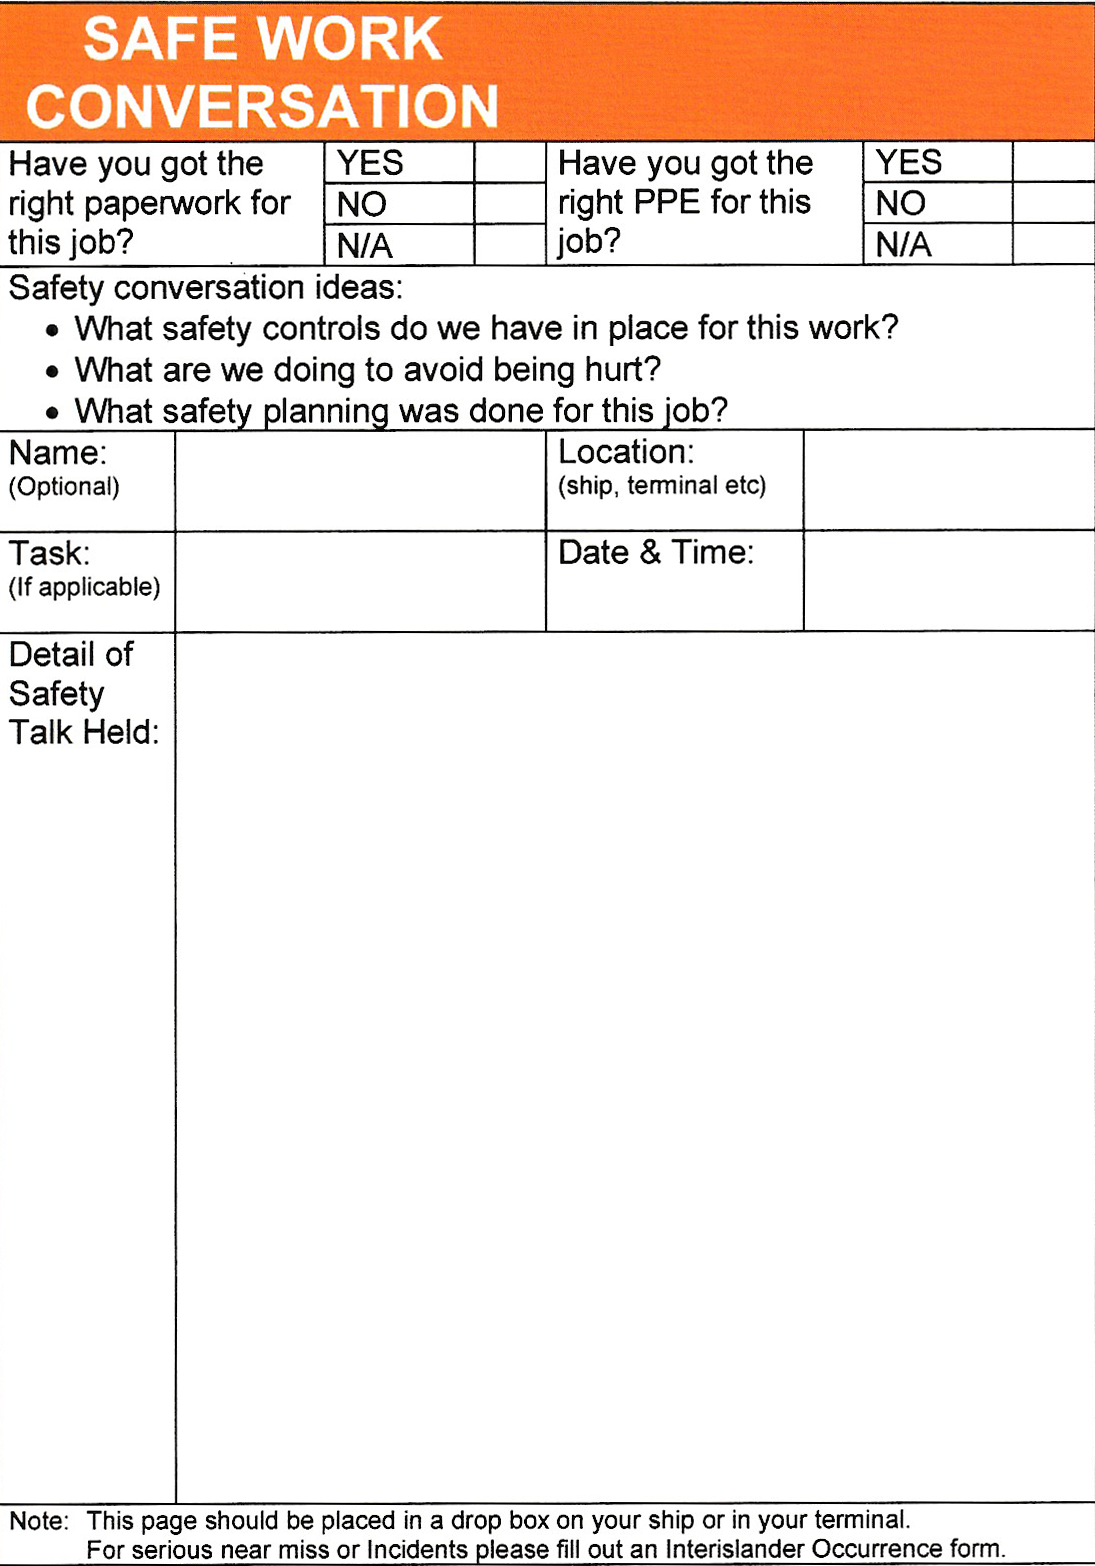
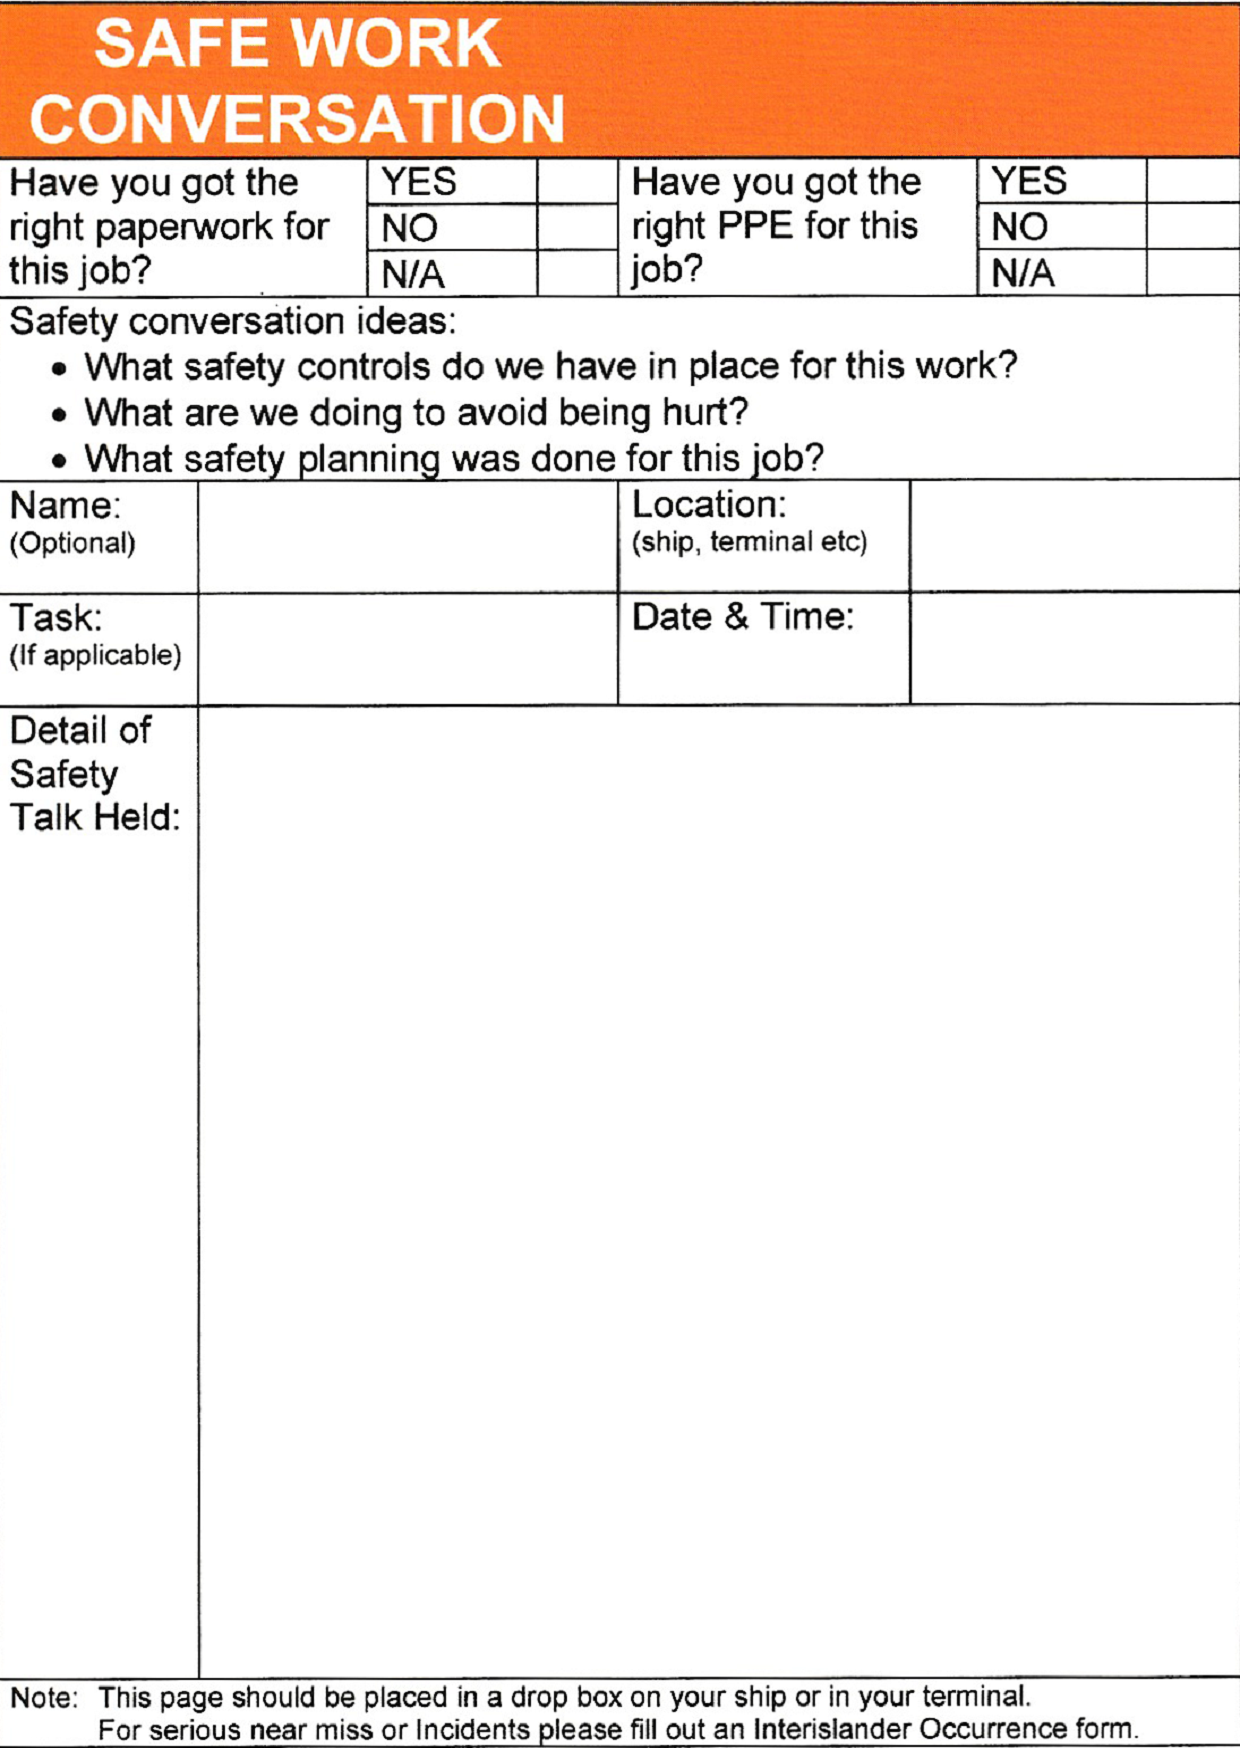
hee

diff --git a/nzms/index.html b/nzms/index.html
@@ -1,82 +1,105 @@
 <!doctype html>
 <html>
-<head>
-<link rel="stylesheet" type="text/css" href="markdown.css">
-<link rel="stylesheet" type="text/css" href="styles.css">
-<title>ETO/ENG Class of 2019/2020 Vessels</title>
-</head>
-<body>
-<article class="markdown-body" align="center">
-<script type="text/javascript">
-    // Map appearance
-    var width="100%";         // width in pixels or percentage
-    var height="720";         // height in pixels
-    var latitude="-38.00";      // center latitude (decimal degrees)
-    var longitude="175.00";     // center longitude (decimal degrees)
-    var zoom="3";             // initial zoom (between 3 and 18)
-    var names=true;          // always show ship names (defaults to false)
 
-    // Fleet tracking
-    var fleet="a0698273e227a0e70c8ddb38fdf4fe82"; // your personal Fleet key (displayed in your User Profile)
-    var fleet_name="ETOs"; // display particular fleet from your fleet list
-    var fleet_timespan="1440"; // maximum age in minutes of the displayed ship positions
-</script>
-<script type="text/javascript" src="https://www.vesselfinder.com/aismap.js"></script>
-<h1>List of Vessels of At-Sea NZMS ENG/ETO Cadets</h1>
-<p>
- <table>
- <tr class="text-bold">
- <td>Name</td>
- <td>Vessel Type</td>
- <td>Vessel Name</td>
- <td>IMO Number</td>
- </tr>
-  <tr>
-    <td>Josh C.</td>
-		<td>Container Ship</td>
-    <td><a href="https://www.marinetraffic.com/en/ais/details/ships/imo:9516741/" target="_blank">M/S Moana Chief</a></td>
-    <td>9516741</td>
-  </tr>
-    <tr>
-    <td>Levi D.</td>
-	<td>RO/RO Passenger Ferry</td>
-    <td><a href="https://www.marinetraffic.com/en/ais/details/ships/imo:9174828/" target="_blank">DEV Aratere</a></td>
-    <td>9174828</td>
-  </tr>
-      <tr>
-    <td>Ollie B.</td>
-	<td>RO/RO Passenger Ferry</td>
-    <td><a href="https://www.marinetraffic.com/en/ais/details/ships/imo:9174828/" target="_blank">DEV Aratere</a></td>
-    <td>9174828</td>
-  </tr>
-</table> </p>
-<h1>List of Previous Vessels of NZMS ENG/ETO Cadets</h1>
- <table>
- <tr class="text-bold">
- <td>Name</td>
- <td>Vessel Type</td>
- <td>Vessel Name</td>
- <td>IMO Number</td>
- <td>Year of Service</td>
- </tr>
-  <tr>
-    <td>Josh C.</td>
-		<td>Cruise Ship</td>
-    <td><a href="https://www.marinetraffic.com/en/ais/details/ships/imo:9378450/" target="_blank">M/S Nieuw Amsterdam</a></td>
-    <td>9378450</td>
-	<td>2019</td>
-  </tr>
-    <tr>
-    <td>Ollie B.</td>
-		<td>Container Ship</td>
-    <td><a href="https://www.marinetraffic.com/en/ais/details/ships/imo:9354533/" target="_blank">Capitaine Tasman</a></td>
-    <td>9354533</td>
-	<td>2019</td>
-  </tr>
-</table>
-<p><span style="font-style:italic;">Data supplied by <a href="https://www.vesselfinder.com/" target="_blank">Vessel Finder</a></p></span>
-<h3 style="text-align:center;">REST IN PEACE THE <a href="https://www.nzmaritime.com/">NZMS</a> ETO PROGRAMME</h3>
-<h3 style="text-align:center;">2016-2020</h3>
-</article>
+<head>
+    <link rel="stylesheet" type="text/css" href="markdown.css">
+    <link rel="stylesheet" type="text/css" href="styles.css">
+    <title>NZMS ETO Status</title>
+</head>
+
+<body>
+    <article class="markdown-body" align="center">
+        <script type="text/javascript">
+            // Map appearance
+            var width="100%";         // width in pixels or percentage
+            var height="720";         // height in pixels
+            var latitude="-38.00";      // center latitude (decimal degrees)
+            var longitude="175.00";     // center longitude (decimal degrees)
+            var zoom="3";             // initial zoom (between 3 and 18)
+            var names=true;          // always show ship names (defaults to false)
+        
+            // Fleet tracking
+            var fleet="a0698273e227a0e70c8ddb38fdf4fe82"; // your personal Fleet key (displayed in your User Profile)
+            var fleet_name="ETOs"; // display particular fleet from your fleet list
+            var fleet_timespan="1440"; // maximum age in minutes of the displayed ship positions
+        </script>
+        <script type="text/javascript" src="https://www.vesselfinder.com/aismap.js"></script>
+        <h1>Current Status of NZMS ETOs</h1>
+        <p>
+            <table>
+                <tr class="text-bold">
+                    <td>Name</td>
+                    <td>Status</td>
+                    <td>Vessel Name</td>
+                    <td>Vessel Type</td>
+                </tr>
+                <tr>
+                    <td>Toby S-M.</td>
+                    <td>AT SEA</td>
+                    <td><a href="https://www.marinetraffic.com/en/ais/details/ships/imo:9516741/" target="_blank">M/S Moana Chief</a></td>
+                    <td>Container Vessel</td>
+                </tr>
+                <tr>
+                    <td>Levi D.</td>
+                    <td>AT SEA</td>
+                    <td><a href="https://www.marinetraffic.com/en/ais/details/ships/imo:9174828/" target="_blank">DEV Aratere</a></td>
+                    <td>RO/RO Passenger Ferry</td>
+                </tr>
+                <tr>
+                    <td>Nick H.</td>
+                    <td>ASHORE</td>
+                    <td>N/A</td>
+                    <td>N/A</td>
+                </tr>
+                <tr>
+                    <td>Josh C.</td>
+                    <td>ASHORE</td>
+                    <td>N/A</td>
+                    <td>N/A</td>
+                </tr>
+                <tr>
+                    <td>Lewis G.</td>
+                    <td>UNKNOWN</td>
+                    <td>N/A</td>
+                    <td>N/A</td>
+                </tr>
+                <tr>
+                    <td>James S.</td>
+                    <td>ASHORE (P)</td>
+                    <td>N/A</td>
+                    <td>N/A</td>
+                </tr>
+                <tr>
+                    <td>Rhett S.</td>
+                    <td>UNKNOWN</td>
+                    <td>N/A</td>
+                    <td>N/A</td>
+                </tr>
+                <tr>
+                    <td>Luciano H.</td>
+                    <td>UNKNOWN</td>
+                    <td>N/A</td>
+                    <td>N/A</td>
+                </tr>
+                <tr>
+                    <td>Marlon T.</td>
+                    <td>UNKNOWN</td>
+                    <td>N/A</td>
+                    <td>N/A</td>
+                </tr>
+                <tr>
+                    <td>Sam C.</td>
+                    <td>INSANE (P)</td>
+                    <td>N/A</td>
+                    <td>N/A</td>
+                </tr>
+            </table>
+        </p>
+        <p>A (P) indicates that this status is assumed to be permanent.</p>
+        <p><span style="font-style:italic;">Data supplied by <a href="https://www.vesselfinder.com/" target="_blank">Vessel Finder</a></p></span>
+            <h3 style="text-align:center;">REST IN PEACE THE <a href="https://www.nzmaritime.com/">NZMS</a> ETO PROGRAMME</h3>
+            <h3 style="text-align:center;">2016-2020</h3>
+    </article>
 </body>
+
 </html>

diff --git a/random/main.js b/random/main.js
@@ -1,5 +1,7 @@
 const randomize = document.querySelector('.randomize');
 const story = document.querySelector('.story');
+const date = document.querySelector(".date");
+
 
 function randomValueFromArray(array){
   const random = Math.floor(Math.random()*array.length);
@@ -38,9 +40,11 @@ let equipment = [
 	"forward fuel module",
 	"lathe",
 	"drill press",
-	"grinder",
+	"intering valve",
 	"starboard stabilizer",
 	"crew mess dishwasher",
+	"plus lounge urinal",
+	"Client 1",
 ];
 let conversation = [
 	"toolbox talk was held",
@@ -74,6 +78,7 @@ let pointA = [
 	": danger of electrocution",
 	": risk of electrocution",
 	": possibility of a shock hazard",
+	": dangers of working from heights",
 ];
 let pointB = [
 	" ",
@@ -103,12 +108,12 @@ let pointD = [
 	" ",
 	" ",
 	", slip and fall hazards",
-	", dangerous heights",
 	", mislabelled equipment",
 	", improperly secured gear",
 	", working in a rough sea state",
 	", danger of working on a ladder",
 	", the importance of correct labelling",
+	", sharp edges",
 ]
 let namesA = [
 	"Chief Engineer",
@@ -296,9 +301,24 @@ let stupidE = [
 	
 
 randomize.addEventListener('click', result);
+function randomDate(date1, date2){
+	
+    function randomValueBetween(min, max) {
+      return Math.random() * (max - min) + min;
+    }
+    var date1 = date1 || '01-01-1970'
+    var date2 = date2 || new Date().toLocaleDateString()
+    date1 = new Date(date1).getTime()
+    date2 = new Date(date2).getTime()
+    if(date1>date2){
+        return new Date(randomValueBetween(date2,date1)).toLocaleDateString('en-NZ',{day: "numeric", month: "short"});  
+    } else{
+        return new Date(randomValueBetween(date1, date2)).toLocaleDateString('en-NZ');
+    }
+}
 
 function result() {
-	
+  let dateSet = "A6<br>" + randomDate('Feb 22 2021', 'Feb 10 2021');
   let newStory = storyText;
   let newStoryB = storyTextB;
   let newStoryC = storyTextC;
@@ -365,26 +385,42 @@ function result() {
   newStoryD = newStoryD.replace(':pointD:',storyAitemH);
   
 if(document.getElementById("font1").checked) {
-	  document.querySelector('p').style.fontFamily = "Just Me Again Down Here,arial";
+	  document.querySelector('span').style.fontFamily = "Beth Ellen,arial";
+	  document.querySelector('span').style.fontSize = "14px";
+	  document.querySelector('p').style.fontFamily = "Beth Ellen,arial";
+	  document.querySelector('p').style.fontSize = "14px";
 } else if(document.getElementById("font2").checked) {
-	  document.querySelector('p').style.fontFamily = "Long Cang,arial";
+	  document.querySelector('span').style.fontFamily = "Dawning of a New Day,arial";
+	  document.querySelector('span').style.fontSize = "20px";
+	  document.querySelector('p').style.fontFamily = "Dawning of a New Day,arial";
+	  document.querySelector('p').style.fontSize = "20px";
 } else if(document.getElementById("font3").checked) {
-	  document.querySelector('p').style.fontFamily = "Indie Flower,arial";
+	  document.querySelector('span').style.fontFamily = "Over the Rainbow,arial";
+	  document.querySelector('span').style.fontSize = "15px";
+	  document.querySelector('p').style.fontFamily = "Over the Rainbow,arial";
+	  document.querySelector('p').style.fontSize = "15px";
 } else if(document.getElementById("font4").checked) {
-	  document.querySelector('p').style.fontFamily = "Gochi Hand,arial";
+	  document.querySelector('span').style.fontFamily = "Liu Jian Mao Cao,arial";
+	  document.querySelector('span').style.fontSize = "14px";
+	  document.querySelector('p').style.fontFamily = "Liu Jian Mao Cao,arial";
+	  document.querySelector('p').style.fontSize = "14px";
 }
  
 if(document.getElementById("story1").checked) {
-  story.textContent = newStory;
-  story.style.visibility = 'visible';
+	date.innerHTML = dateSet;
+	story.textContent = newStory;
+	story.style.visibility = 'visible';
 } else if(document.getElementById("story2").checked) {
+	date.innerHTML = dateSet;
 	story.textContent = newStoryB;
 	story.style.visibility = 'visible';
 } else if(document.getElementById("story3").checked) {
-story.textContent = newStoryC;
-  story.style.visibility = 'visible';
+	date.innerHTML = dateSet;
+	story.textContent = newStoryC;
+	story.style.visibility = 'visible';
 } else if(document.getElementById("story0").checked) {
-story.textContent = newStoryD;
-story.style.visibility = 'visible';
+	date.innerHTML = dateSet;
+	story.textContent = newStoryD;
+	story.style.visibility = 'visible';
 }
 }

diff --git a/random/index.html b/random/index.html
@@ -13,11 +13,22 @@
 <link rel="preconnect" href="https://fonts.gstatic.com">
 <link href="https://fonts.googleapis.com/css2?family=Indie+Flower&display=swap" rel="stylesheet"> 
 <link rel="preconnect" href="https://fonts.gstatic.com">
-<link href="https://fonts.googleapis.com/css2?family=Gochi+Hand&display=swap" rel="stylesheet"> 
+<link href="https://fonts.googleapis.com/css2?family=Gochi+Hand&display=swap" rel="stylesheet">
+<link rel="preconnect" href="https://fonts.gstatic.com">
+<link href="https://fonts.googleapis.com/css2?family=Beth+Ellen&display=swap" rel="stylesheet"> 
+<link rel="preconnect" href="https://fonts.gstatic.com">
+<link href="https://fonts.googleapis.com/css2?family=Covered+By+Your+Grace&display=swap" rel="stylesheet"> 
+<link rel="preconnect" href="https://fonts.gstatic.com">
+<link href="https://fonts.googleapis.com/css2?family=Give+You+Glory&display=swap" rel="stylesheet"> 
+<link rel="preconnect" href="https://fonts.gstatic.com">
+<link href="https://fonts.googleapis.com/css2?family=Liu+Jian+Mao+Cao&display=swap" rel="stylesheet">  
+<link rel="preconnect" href="https://fonts.gstatic.com">
+<link href="https://fonts.googleapis.com/css2?family=Dawning+of+a+New+Day&display=swap" rel="stylesheet">
+<link rel="preconnect" href="https://fonts.gstatic.com">
+<link href="https://fonts.googleapis.com/css2?family=Over+the+Rainbow&display=swap" rel="stylesheet">
   </head>
-  <body>
+  <body class="A6">
     <div class="topbar">
-	THIS TOOL WAS PRODUCED ANONYMOUSLY AS A JOKE. PAID FOR BY THE RYAN CAMPBELL FOUNDATION.<br />
 	<label for="font1">Font A</label><input id="font1" type="radio" name="font" value="font1" checked>
 	<label for="font2">Font B</label><input id="font2" type="radio" name="font" value="font2">
 	<label for="font3">Font C</label><input id="font3" type="radio" name="font" value="font3">
@@ -29,6 +40,7 @@
       <button class="randomize">Generate</button>
     </div>
 	<div class="output">
+	<span class="date"></span>
     <p class="story"></p>
     <script src="main.js" type="application/javascript"></script>
 	</div>

diff --git a/random/main.css b/random/main.css
@@ -1,23 +1,35 @@
 body {
-	font-size: 18px;
-	margin-left:auto;
-	margin-right:auto;
-	width: 100%;
+	font-size: 24px;
+	margin: 0 0 0 0;
 }
 p {
-	padding-top: 750px;
-	padding-left:200px;
+	padding-top:0px;
 	font-size: 64px;
-	width:880px;
+	padding-top:0mm;
+	padding-left: 24mm;
+	padding-right: 6mm;
+	padding-bottom: 6mm;
 }
 .output {
-	background-image: url("sfw.png");
-	height: 1566px;
-	width: 1095px;
+	background-image: url("sfw.jpg");
 	background-repeat: no-repeat;
+	width:105mm;
+	height:148mm;
+	background-size: 100%;
+	padding: 0 0 0 0;
+	margin: 0 0 0 0;
 }
 @media print {
 .topbar {
 	display: none !important;
 }
+}
+@page {
+	size: A6 portrait;
+}
+.date {
+	display:block;
+	text-align:center;
+	padding-top: 50mm;
+	padding-left: 75mm;
 }
